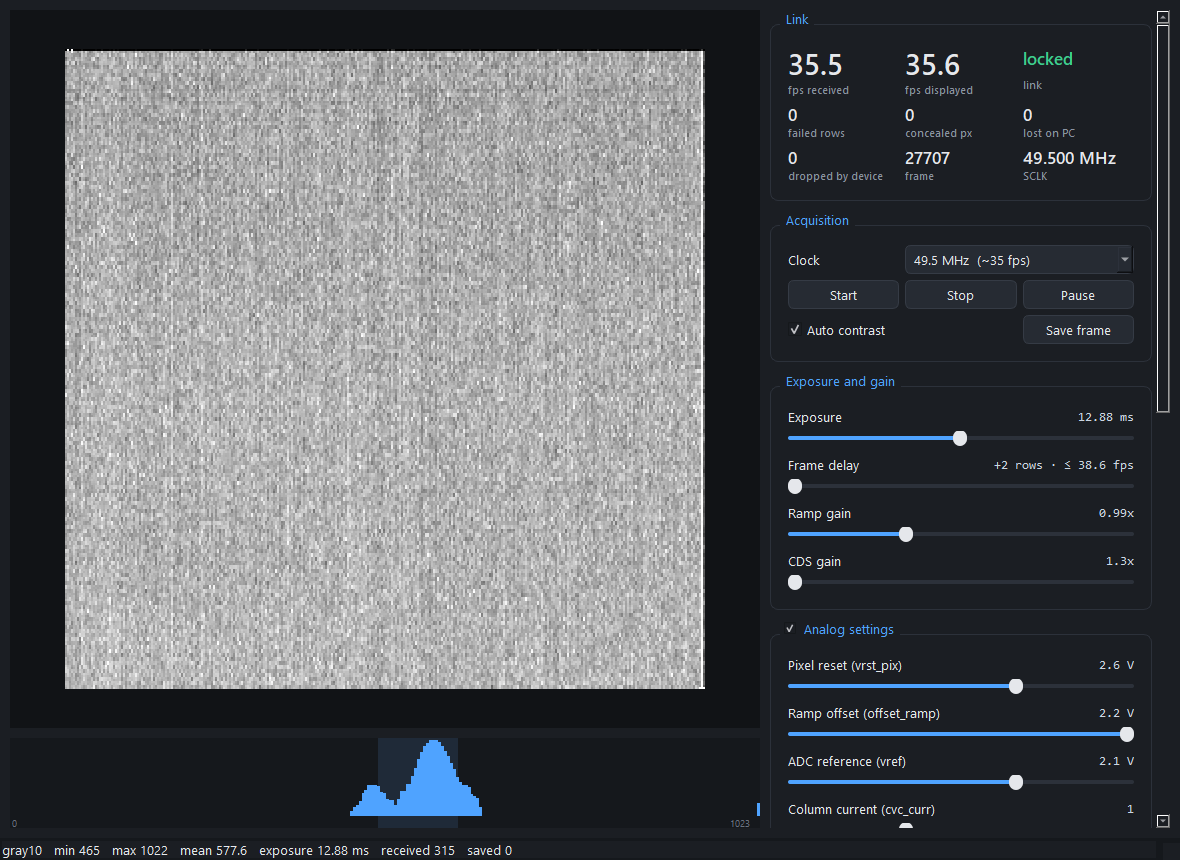
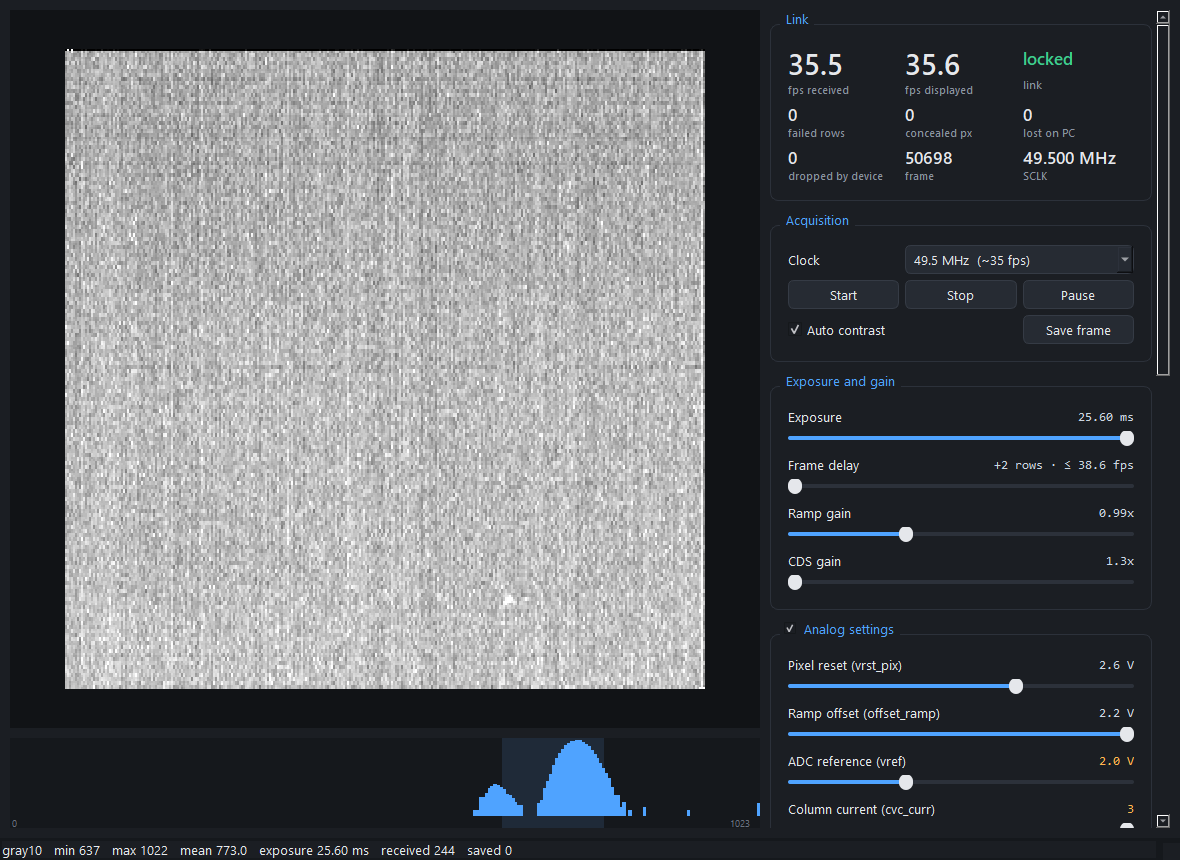
GUI: illumination controls; docs show the whole panel
- Illumination panel: LED on/off, current in 0.1 mA steps with its DAC code,
  and the current ceiling (LEDMAX). Switching on sends the current first (the
  DAC powers up at zero). Keys L, [ and ]. The GUI pushes its LED state to the
  device at startup and after a reconnect, since frames do not carry it.
  Checked against the firmware's replies; the LEDs are not wired on the bench.
- Register table no longer scrolls.
- Docs: full-height panel screenshot, keys, illumination notes; md_in_html
  enabled for figures.

diff --git a/host/naneye/gui.py b/host/naneye/gui.py
@@ -10,7 +10,7 @@ over USB intact, "displayed" is what was painted. If painting falls behind, fram
 skipped for display only -- none are lost from reception.
 
 Keys: Space pause, S save frame, + / - exposure, R datasheet-recommended analog settings,
-      Q quit.
+      L LED on/off, [ / ] LED current -/+ 1 mA, Q quit.
 """
 
 from __future__ import annotations
@@ -34,6 +34,13 @@ CLOCKS = ((49500000, "49.5 MHz  (~35 fps)"), (24750000, "24.75 MHz  (~18 fps)"),
 SETTLE_S = 0.15          # a slider must be still this long before its value is sent
 NO_FRAMES_S = 2.0        # this long without a frame: show NO FRAMES
 RESTART_AFTER_S = 5.0    # ... and this long: restart the camera (unless Stop was pressed)
+# Illumination: LTC2630 DAC (12 bit, 2.5 V) into a 56 ohm sense resistor (docs/hardware.md).
+LED_MAX_MA = 2.5 / 56.0 * 1000.0   # 44.6 mA, the hardware ceiling
+LED_DEFAULT_LIMIT_MA = 20.0        # the firmware's default ceiling
+
+
+def led_code(ma: float) -> int:
+    return int(round(ma / LED_MAX_MA * 4095))
 ACCENT = "#4fa3ff"
 GOOD, BAD, WARN = "#3ecf8e", "#ff5c5c", "#ffb44f"
 
@@ -336,6 +343,7 @@ class MainWindow(QtWidgets.QMainWindow):
         # The device is started only now, with the reader already running: started earlier,
         # it streams while the window is being built and drops frames nobody is reading.
         if self.device is not None:
+            QtCore.QTimer.singleShot(0, self._restore_led)
             QtCore.QTimer.singleShot(0, self._start)
 
     @property
@@ -365,6 +373,7 @@ class MainWindow(QtWidgets.QMainWindow):
         side.addWidget(self._acquisition_box(clock_hz))
         side.addWidget(self._exposure_box())
         side.addWidget(self._analog_box())
+        side.addWidget(self._led_box())
         side.addWidget(self._register_box())
         side.addWidget(self._log_box(), 1)
         scroll = QtWidgets.QScrollArea()
@@ -381,7 +390,10 @@ class MainWindow(QtWidgets.QMainWindow):
                         (Qt.Key.Key_Plus, lambda: self._nudge_exposure(-8)),
                         (Qt.Key.Key_Equal, lambda: self._nudge_exposure(-8)),
                         (Qt.Key.Key_Minus, lambda: self._nudge_exposure(8)),
-                        (Qt.Key.Key_R, self._recommended), (Qt.Key.Key_Q, self.close)):
+                        (Qt.Key.Key_R, self._recommended), (Qt.Key.Key_Q, self.close),
+                        (Qt.Key.Key_L, lambda: self.btn_led.toggle()),
+                        (Qt.Key.Key_BracketLeft, lambda: self._nudge_led(-1.0)),
+                        (Qt.Key.Key_BracketRight, lambda: self._nudge_led(1.0))):
             QtGui.QShortcut(QtGui.QKeySequence(key), self, activated=fn)
         self.resize(1180, 860)
 
@@ -483,6 +495,95 @@ class MainWindow(QtWidgets.QMainWindow):
         box.toggled.connect(lambda on: [w.setVisible(on) for w in analog + [btn]])
         return box
 
+    def _led_box(self):
+        """The NanoBerry's LEDs: on/off, current, and the current ceiling.
+
+        The DAC powers up at zero scale, so switching on sends the current first. Current
+        is set in 0.1 mA steps (the DAC's own step is 0.011 mA)."""
+        box = self._group("Illumination")
+        g = QtWidgets.QGridLayout(box)
+        self.btn_led = QtWidgets.QPushButton("LED off")
+        self.btn_led.setCheckable(True)
+        self.btn_led.toggled.connect(self._led_toggled)
+        self.led_limit = QtWidgets.QDoubleSpinBox()
+        self.led_limit.setRange(1.0, LED_MAX_MA)
+        self.led_limit.setDecimals(1)
+        self.led_limit.setSingleStep(1.0)
+        self.led_limit.setSuffix(" mA max")
+        self.led_limit.setValue(LED_DEFAULT_LIMIT_MA)
+        self.led_limit.setToolTip("Current ceiling (LEDMAX). Hardware maximum 44.6 mA")
+        self.led_limit.valueChanged.connect(self._led_limit_changed)
+        self.led_slider = QtWidgets.QSlider(Qt.Orientation.Horizontal)
+        self.led_slider.setRange(0, int(LED_DEFAULT_LIMIT_MA * 10))
+        self.led_slider.setValue(50)  # 5 mA
+        self.led_slider.valueChanged.connect(self._led_current_moved)
+        self.led_readout = QtWidgets.QLabel("")
+        self.led_readout.setObjectName("readout")
+        self.led_readout.setAlignment(Qt.AlignmentFlag.AlignRight | Qt.AlignmentFlag.AlignVCenter)
+        note = QtWidgets.QLabel("VIS and NIR strings share one current sink; which are active "
+                                "depends on jumpers R16/R17.")
+        note.setObjectName("caption")
+        note.setWordWrap(True)
+        g.addWidget(self.btn_led, 0, 0)
+        g.addWidget(self.led_limit, 0, 1)
+        g.addWidget(QtWidgets.QLabel("Current"), 1, 0)
+        g.addWidget(self.led_readout, 1, 1)
+        g.addWidget(self.led_slider, 2, 0, 1, 2)
+        g.addWidget(note, 3, 0, 1, 2)
+        self.led_pending_since = None
+        self.led_sent_ma = None
+        self._update_led_readout()
+        for w in (self.btn_led, self.led_limit, self.led_slider):
+            w.setEnabled(self.device is not None)
+        return box
+
+    def _led_ma(self) -> float:
+        return self.led_slider.value() / 10.0
+
+    def _update_led_readout(self):
+        ma = self._led_ma()
+        self.led_readout.setText(f"{ma:.1f} mA  ·  DAC code {led_code(ma)}")
+
+    def _led_toggled(self, on: bool):
+        self.btn_led.setText("LED on" if on else "LED off")
+        if on:
+            self._send(f"LEDI {self._led_ma():.2f}")
+            self.led_sent_ma = self._led_ma()
+        self._send(f"LED {1 if on else 0}")
+
+    def _led_current_moved(self):
+        self._update_led_readout()
+        self.led_pending_since = time.monotonic()
+
+    def _led_limit_changed(self, limit: float):
+        self._send(f"LEDMAX {limit:.1f}")
+        self.led_slider.setMaximum(int(round(limit * 10)))  # also clamps the current
+        self._update_led_readout()
+
+    def _nudge_led(self, step_ma: float):
+        self.led_slider.setValue(self.led_slider.value() + int(step_ma * 10))
+
+    def _flush_led(self):
+        """Send a settled current change, like the register sliders."""
+        if self.led_pending_since is None:
+            return
+        if time.monotonic() - self.led_pending_since < SETTLE_S:
+            return
+        self.led_pending_since = None
+        if self._led_ma() != self.led_sent_ma:
+            self._send(f"LEDI {self._led_ma():.2f}")
+            self.led_sent_ma = self._led_ma()
+
+    def _restore_led(self):
+        """Make the device's LED state match the panel: at startup (the device keeps its
+        LED settings in RAM between sessions) and after a reconnect."""
+        self._send(f"LEDMAX {self.led_limit.value():.1f}")
+        if self.btn_led.isChecked():
+            self._send(f"LEDI {self._led_ma():.2f}")
+            self._send("LED 1")
+        else:
+            self._send("LED 0")
+
     def _register_box(self):
         box = self._group("Registers")
         v = QtWidgets.QVBoxLayout(box)
@@ -498,8 +599,12 @@ class MainWindow(QtWidgets.QMainWindow):
         hh.setSectionResizeMode(0, QtWidgets.QHeaderView.ResizeMode.ResizeToContents)
         hh.setSectionResizeMode(1, QtWidgets.QHeaderView.ResizeMode.ResizeToContents)
         hh.setSectionResizeMode(2, QtWidgets.QHeaderView.ResizeMode.Stretch)
-        self.table.verticalHeader().setDefaultSectionSize(20)
-        self.table.setFixedHeight(20 * len(regs.FIELDS) + 26)
+        vh = self.table.verticalHeader()
+        vh.setSectionResizeMode(QtWidgets.QHeaderView.ResizeMode.Fixed)
+        vh.setMinimumSectionSize(20)
+        vh.setDefaultSectionSize(20)
+        self.table.setVerticalScrollBarPolicy(Qt.ScrollBarPolicy.ScrollBarAlwaysOff)
+        self.table.setFixedHeight(20 * len(regs.FIELDS) + 30)
         legend = QtWidgets.QLabel(f"<span style='color:{WARN}'>amber</span>: not the "
                                   "datasheet's recommended value · grey: set by the firmware")
         legend.setObjectName("caption")
@@ -537,6 +642,7 @@ class MainWindow(QtWidgets.QMainWindow):
 
     def _on_reconnected(self):
         self.log.appendPlainText("! restarting the camera after reconnecting")
+        self._restore_led()
         self._start(automatic=True)
 
     def _start(self, automatic: bool = False):
@@ -631,6 +737,7 @@ class MainWindow(QtWidgets.QMainWindow):
         while self.reader.log:
             self.log.appendPlainText(self.reader.log.popleft())
         self._flush_register_writes()
+        self._flush_led()
         frame = self.reader.take_latest()
         if frame is None or self.paused:
             return
@@ -765,8 +872,8 @@ QPushButton {{ background: #262b33; border: 1px solid #353b45; border-radius: 6p
 QPushButton:hover {{ border-color: {ACCENT}; }}
 QPushButton:checked {{ background: {ACCENT}; color: #0b1320; }}
 QPushButton:disabled, QComboBox:disabled {{ color: #5b626d; }}
-QComboBox {{ background: #262b33; border: 1px solid #353b45; border-radius: 6px;
-             padding: 4px 8px; }}
+QComboBox, QDoubleSpinBox {{ background: #262b33; border: 1px solid #353b45;
+                            border-radius: 6px; padding: 4px 8px; }}
 QSlider::groove:horizontal {{ height: 4px; background: #2c313a; border-radius: 2px; }}
 QSlider::sub-page:horizontal {{ background: {ACCENT}; border-radius: 2px; }}
 QSlider::handle:horizontal {{ background: #e5e7eb; width: 14px; margin: -6px 0;

diff --git a/docs/host.md b/docs/host.md
@@ -69,11 +69,32 @@ uv run python -m naneye.gui --snapshot gui.png                # screenshot after
 | **Acquisition** | Clock rate, Start, Stop, Pause, auto contrast, Save frame (16-bit PNG, raw values) |
 | **Exposure and gain** | Sliders for exposure, frame delay, ramp gain and CDS gain, each read out in real units (ms, fps, ×) |
 | **Analog settings** | Sliders for the six analog fields, amber when not at the datasheet's recommended value, and a *Datasheet recommended* button. Collapsible |
+| **Illumination** | The NanoBerry's LEDs: on/off, current in 0.1 mA steps with the DAC code it becomes, and the current ceiling (`LEDMAX`, default 20 mA, hardware maximum 44.6 mA). Switching on sends the current first, because the DAC powers up at zero |
 | **Registers** | Both registers decoded field by field; firmware-owned fields grey |
 | **Device** | Every command sent and every reply, including `START`'s sampling-point report |
 
 Under the image is a log-scaled histogram of the raw 10-bit values, with the auto-contrast
 window shaded.
+
+<figure markdown>
+![The whole control panel](images/gui-panel.png){ width="330" }
+<figcaption>The whole side panel, top to bottom. In the window it scrolls.</figcaption>
+</figure>
+
+| Key | Action |
+|---|---|
+| ++plus++ / ++minus++ | longer / shorter exposure |
+| ++r++ | datasheet-recommended analog settings |
+| ++l++ | LED on/off |
+| ++bracket-left++ / ++bracket-right++ | LED current ∓1 mA |
+| ++s++ | save the frame (16-bit PNG, raw 10-bit values) |
+| ++space++ | pause |
+| ++q++ | quit |
+
+The panels only ever show the device's own state or what was sent to it: the register table
+and the Link panel come from each frame's header, and every command and reply is in the
+Device log. The LED settings are the exception, because frames do not carry them; the GUI
+sends its LED state to the device when it starts, so the two cannot disagree.
 
 **How it keeps up.** A background thread owns the serial port and reads every packet as it
 arrives; the window paints the newest frame at up to 60 Hz. So a slow repaint skips frames
@@ -88,8 +109,8 @@ in the packet stream and are picked up by the reader thread. Nothing competes fo
 **Recovery.** If the serial port fails, because the Teensy was unplugged or its watchdog
 reset it, the link shows **RECONNECTING**. The reader closes the port and tries every second
 to open it again, first under its old name, then any Teensy. Once it is back, the camera is
-restarted and the slider settings are written back, since a reset device comes back with its
-default registers. If the port is fine but frames stop, the link shows **NO FRAMES** after
+restarted and the slider and LED settings are written back, since a reset device comes back
+with its defaults. If the port is fine but frames stop, the link shows **NO FRAMES** after
 2 s, and after 5 s the camera is restarted, unless *Stop* was pressed. Everything is logged
 in the *Device* panel.
 The device is started only once the window and its reader are running: started earlier, it

diff --git a/docs/hardware.md b/docs/hardware.md
@@ -235,7 +235,12 @@ I_LED ≈ V_DAC / 56 Ω        0 → 44.6 mA, 10.9 µA per LSB
 
 !!! note "On/off alone gives you no light"
     The `-LZ12` part resets to **zero scale**, so `LED_VCC_ON` by itself yields ~0.18 mA.
-    The DAC has to be programmed: `LEDI 5` then `LED 1`.
+    The DAC has to be programmed: `LEDI 5` then `LED 1`. The GUI's *Illumination* panel
+    does this for you.
+
+The firmware and the GUI's LED controls are checked against the firmware's replies (the DAC
+codes match `I / 44.6 mA × 4095`), but the LEDs themselves have not been lit yet: pins 3–6
+and J2.9 are not wired on the bench.
 
 **Unresolved:** `R16` and `R17` are 0 Ω jumpers selecting the NIR and VIS strings. If both
 are fitted, the two strings share one current sink and the split follows their forward

diff --git a/README.md b/README.md
@@ -44,7 +44,7 @@ It is published to <https://fiepfiep.github.io/teensy_naneyeC/> by
 | Error handling | sampling point calibrated at every start; broken pixel words detected and concealed |
 | Exposure control | verified: brightness linear in exposure, 1.3 to 102 ms |
 | Watchdog | 2 s hardware watchdog, reset cause reported by `ID` |
-| Illumination (LED DAC) | implemented, not yet exercised on hardware |
+| Illumination (LED DAC) | firmware and GUI controls done; LEDs not wired on the bench yet |
 
 Three faults on the Teensy side hid first light: an uninvalidated D-cache over the DMA
 buffers, a datasheet start sequence that was unreliable on this board, and a too-short

diff --git a/docs/index.md b/docs/index.md
@@ -31,7 +31,7 @@ histogram.*
 | Error handling | sampling point measured at every start; broken pixel words detected and concealed |
 | Exposure control | verified: brightness follows exposure linearly from 1.3 to 102 ms |
 | Watchdog | hardware watchdog resets a hung Teensy within 2 s |
-| Illumination (the board's LEDs) | implemented, not yet tested on hardware |
+| Illumination (the board's LEDs) | firmware and GUI controls done; the LEDs are not wired on the bench yet |
 | Host software | PyQt6 camera GUI, recorder, Python API; 84 automated tests, no hardware needed |
 
 ## Where to go

diff --git a/docs/getting-started.md b/docs/getting-started.md
@@ -100,6 +100,7 @@ the device's replies. [Host software](host.md#camera-gui) explains every part.
 |---|---|
 | ++plus++ / ++minus++ | longer / shorter exposure |
 | ++r++ | datasheet-recommended analog settings |
+| ++l++ | LED on/off (the *Illumination* panel sets the current) |
 | ++s++ | save the frame (16-bit PNG, raw 10-bit values) |
 | ++space++ | pause |
 | ++q++ | quit |
